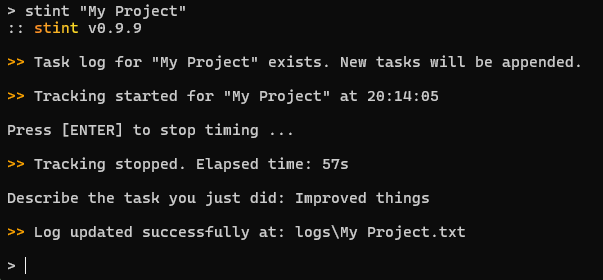
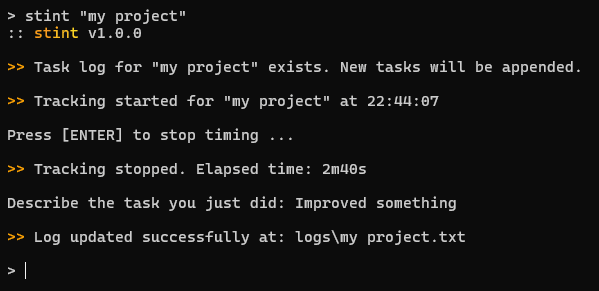
v1.0.0

diff --git a/cmd/stint/main.go b/cmd/stint/main.go
@@ -1,16 +1,10 @@
-/*       _   _       _
- *   ___| |_(_)_ __ | |_
- *  / __| __| | '_ \| __|
- *  \__ \ |_| | | | | |_
- *  |___/\__|_|_| |_|\__|
- *
- *
+/*
  *  stint (noun): A fixed or limited period of time spent doing a particular
  *                job or activity.
  *
  *  ---
  *
- *  This is a very simple command-line time tracking utility for developers.
+ *  This is a (very) simple command-line time tracking utility for developers.
  *  It tracks the amount of time you spend on tasks.
  *
  *  To use, run: stint "your task"
@@ -36,7 +30,7 @@ import (
 )
 
 const appName = "stint"
-const appVersion = "v0.9.9"
+const appVersion = "v1.0.0"
 
 const outputDir = "logs"
 
@@ -51,7 +45,7 @@ func main() {
 	const prefix = orange + ">>" + reset;
 
 	if len(os.Args) < 2 {
-		fmt.Println("Usage: stint \"task name\"")
+		fmt.Println("Usage: stint \"project name\"")
 		return
 	}
 
@@ -82,7 +76,7 @@ func main() {
 		"\n%s Tracking started for \"%s\" at %s\n\n", 
 		prefix,
 		taskName,
-		startTime.Format("15:04:01"),
+		startTime.Format("15:04:05"),
 	)
 	fmt.Println("Press [ENTER] to stop timing ...")
 
@@ -97,6 +91,9 @@ func main() {
 
 	fmt.Print("Describe the task you just did: ")
 	description, _ := reader.ReadString('\n')
+
+	// clean the string
+	description = stripEmojis(description)
 	description = strings.TrimSpace(description)
 
 	if description == "" {

diff --git a/internal/tracker/parser.go b/internal/tracker/parser.go
@@ -122,7 +122,7 @@ func ParseLogFile(path string) []Entry {
 		}
 	}
 
-	// Catch any trailing entry left in memory when the scanner finishes
+	// catch any trailing entry left in memory when the scanner finishes
 	if currentEntry != nil {
 		entries = append(entries, *currentEntry)
 	}

diff --git a/cmd/stint/util.go b/cmd/stint/util.go
@@ -1,0 +1,20 @@
+package main
+
+import (
+	"strings"
+	"unicode"
+)
+
+func stripEmojis(s string) string {
+	var b strings.Builder
+	b.Grow(len(s))
+
+	for _, r := range s {
+		if unicode.IsSymbol(r) {
+			continue
+		}
+		b.WriteRune(r)
+	}
+
+	return b.String()
+}

diff --git a/README.md b/README.md
@@ -64,10 +64,6 @@ An example log will look something like this:
 
 Basically, for every task on your project, run `stint "My Project"`, when you're done describe what you just did, and let stint track time for you.
 
-## Note
-
-Parts of this project were coded using Gemini. The program should be stable but it has not yet been battle tested so don't trust it with critical stuff just yet.
-
 ## License
 
 Copyright &copy; 2026 Danijel Durakovic
